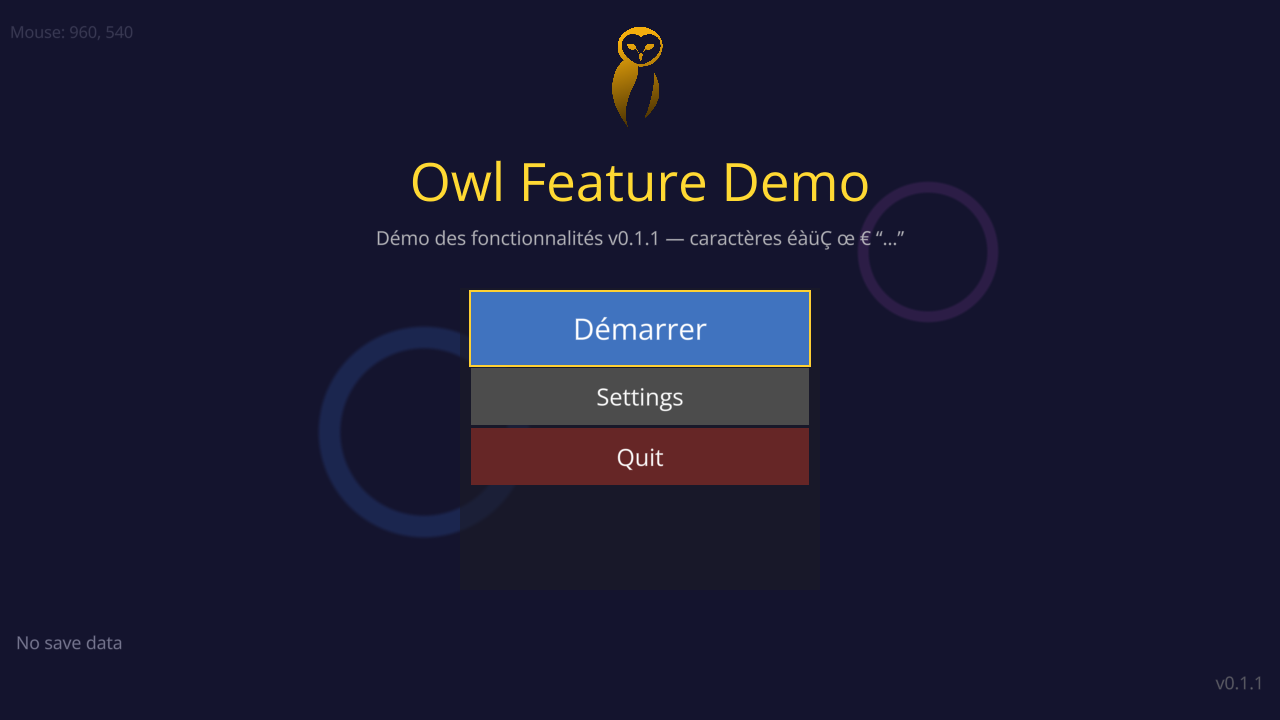
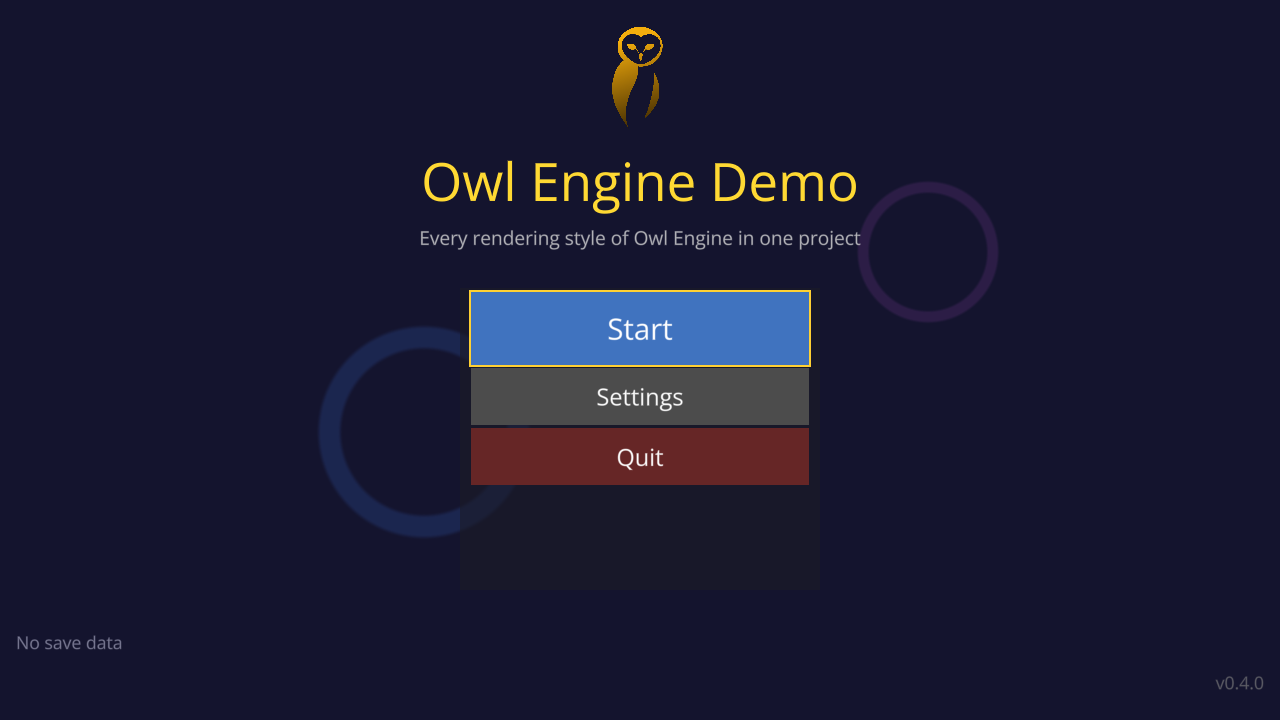
Retitle the Engine Demo main menu for the showcase

Changed region(s): [[0.2812, 0.2139, 0.6875, 0.3667], [0.4375, 0.4278, 0.5625, 0.4889], [0.0312, 0.0306, 0.0938, 0.0611]]

diff --git a/engine_demo/README.md b/engine_demo/README.md
@@ -15,7 +15,7 @@ The hub is a small top-down RPG village with four houses, one per level (labels 
 completing it marks the level done (`level_<name>_done` in gamestate), returns to the hub and bumps the hub counter
 "Levels completed: n / 4". When all four are done the **victory portal** (a purple teleporter) appears and answers.
 
-1. **Main Menu** → press **Démarrer** to begin a new run, or **Continuer** if a pause snapshot exists. **O** (left
+1. **Main Menu** → press **Start** to begin a new run, or **Continue** if a pause snapshot exists. **O** (left
    bumper) opens the isometric town directly.
 2. **Hub** (`world_map.owl`) — WASD to move (the hero has a walk cycle and mirrors toward the direction of motion),
    **E** at a door to enter a level. Hazards: the lava crater in the north west forest is **instant death**, the river
@@ -39,8 +39,8 @@ completing it marks the level done (`level_<name>_done` in gamestate), returns t
 6. **Voxel terrain** (`voxel_terrain.owl`) — WASD walk, mouse look, Space jump, Shift run (double-tap Space flies).
    **Objective: walk 100 blocks away from the landing point** (the HUD shows the distance). Escape returns to the
    hub without completing.
-7. **ESC** in the hub or the platformer pauses the run and returns to the Main Menu, where **Démarrer** becomes
-   **Continuer** and resumes exactly where you left off.
+7. **ESC** in the hub or the platformer pauses the run and returns to the Main Menu, where **Start** becomes
+   **Continue** and resumes exactly where you left off.
 
 ## Scenes
 

diff --git a/doc/pages/changelog.md b/doc/pages/changelog.md
@@ -118,6 +118,7 @@ and this project adheres to [Semantic Versioning](https://semver.org/spec/v2.0.0
 ### Changed
 
 - README showcase: the product is named Owl Engine, with its pitch, Engine Demo screenshots (`doc/images/showcase/`), a GitHub social preview and how it is built with Claude Code under the maintainer's review.
+- Engine Demo main menu titled Owl Engine Demo, in English, with the current version and without the mouse readout.
 - Repository layout: `docker_run.sh` at the root, unit tests, `bench/`, `fuzz/` and the Conan package test under `test/`, the icon and Doxygen filter scripts under `tools/`.
 - Every test fixture (scene, renderer, render references, scenario and mesh files) lives in `test/unit/test_helper/assets/<category>/`, found through `test::getTestAssetsPath()`.
 - Engine shaders live in `engine_assets/shaders/<renderer>/<name>.slang` (the `slang` folder level is gone) and engine fonts in `engine_assets/fonts/` (one flat folder, licences as `LICENSE-<family>.txt`).
